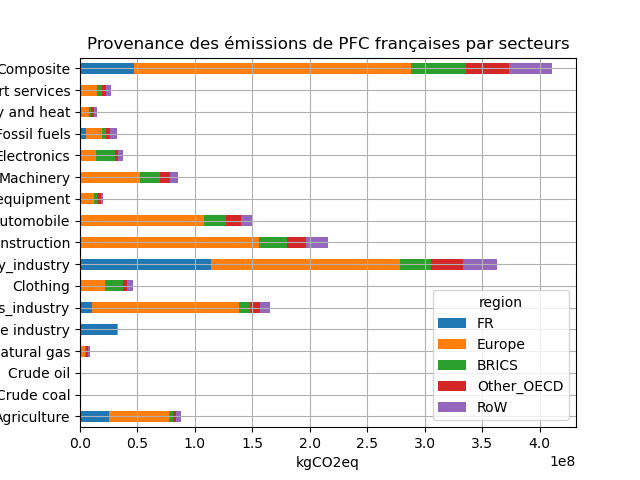
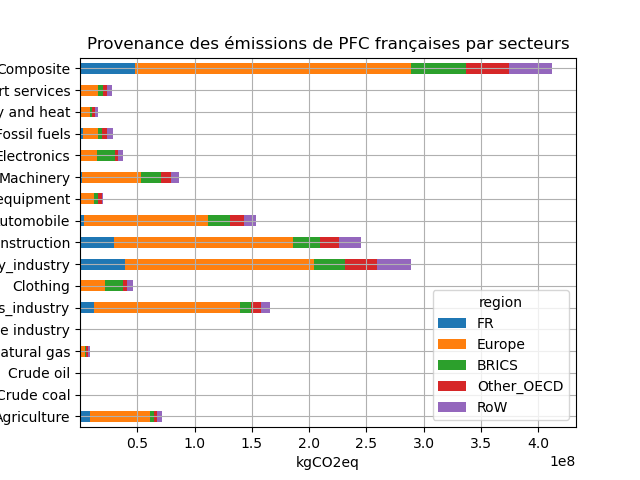
calculs avec dcba

diff --git a/main.py b/main.py
@@ -177,14 +177,9 @@ reg_list = list(reference.get_regions())
 ref_dcba = pd.DataFrame(reference.ghg_emissions_desag.D_cba)
 ref_dpba=pd.DataFrame(reference.ghg_emissions_desag.D_pba)
 
-#émissions directes liées à la production en France
-ges_direct_fr = pd.concat([ref_dpba['FR']], keys=['FR'], names=['region'])
-#émissions importées pour de la consommation en France
-ges_imp_fr = reference.ghg_emissions_desag.D_imp['FR'].iloc[reference.ghg_emissions_desag.D_imp['FR'].index.get_level_values(0)!='FR']
-#concatenation
-empreinte_df = ges_direct_fr.append(ges_imp_fr)
+#empreinte carbone française
+empreinte_df = ref_dcba['FR']
 print(empreinte_df)
-
 
 sumonsectors = empreinte_df.sum(axis=1)
 total_ges_by_origin = sumonsectors.sum(level=0)
